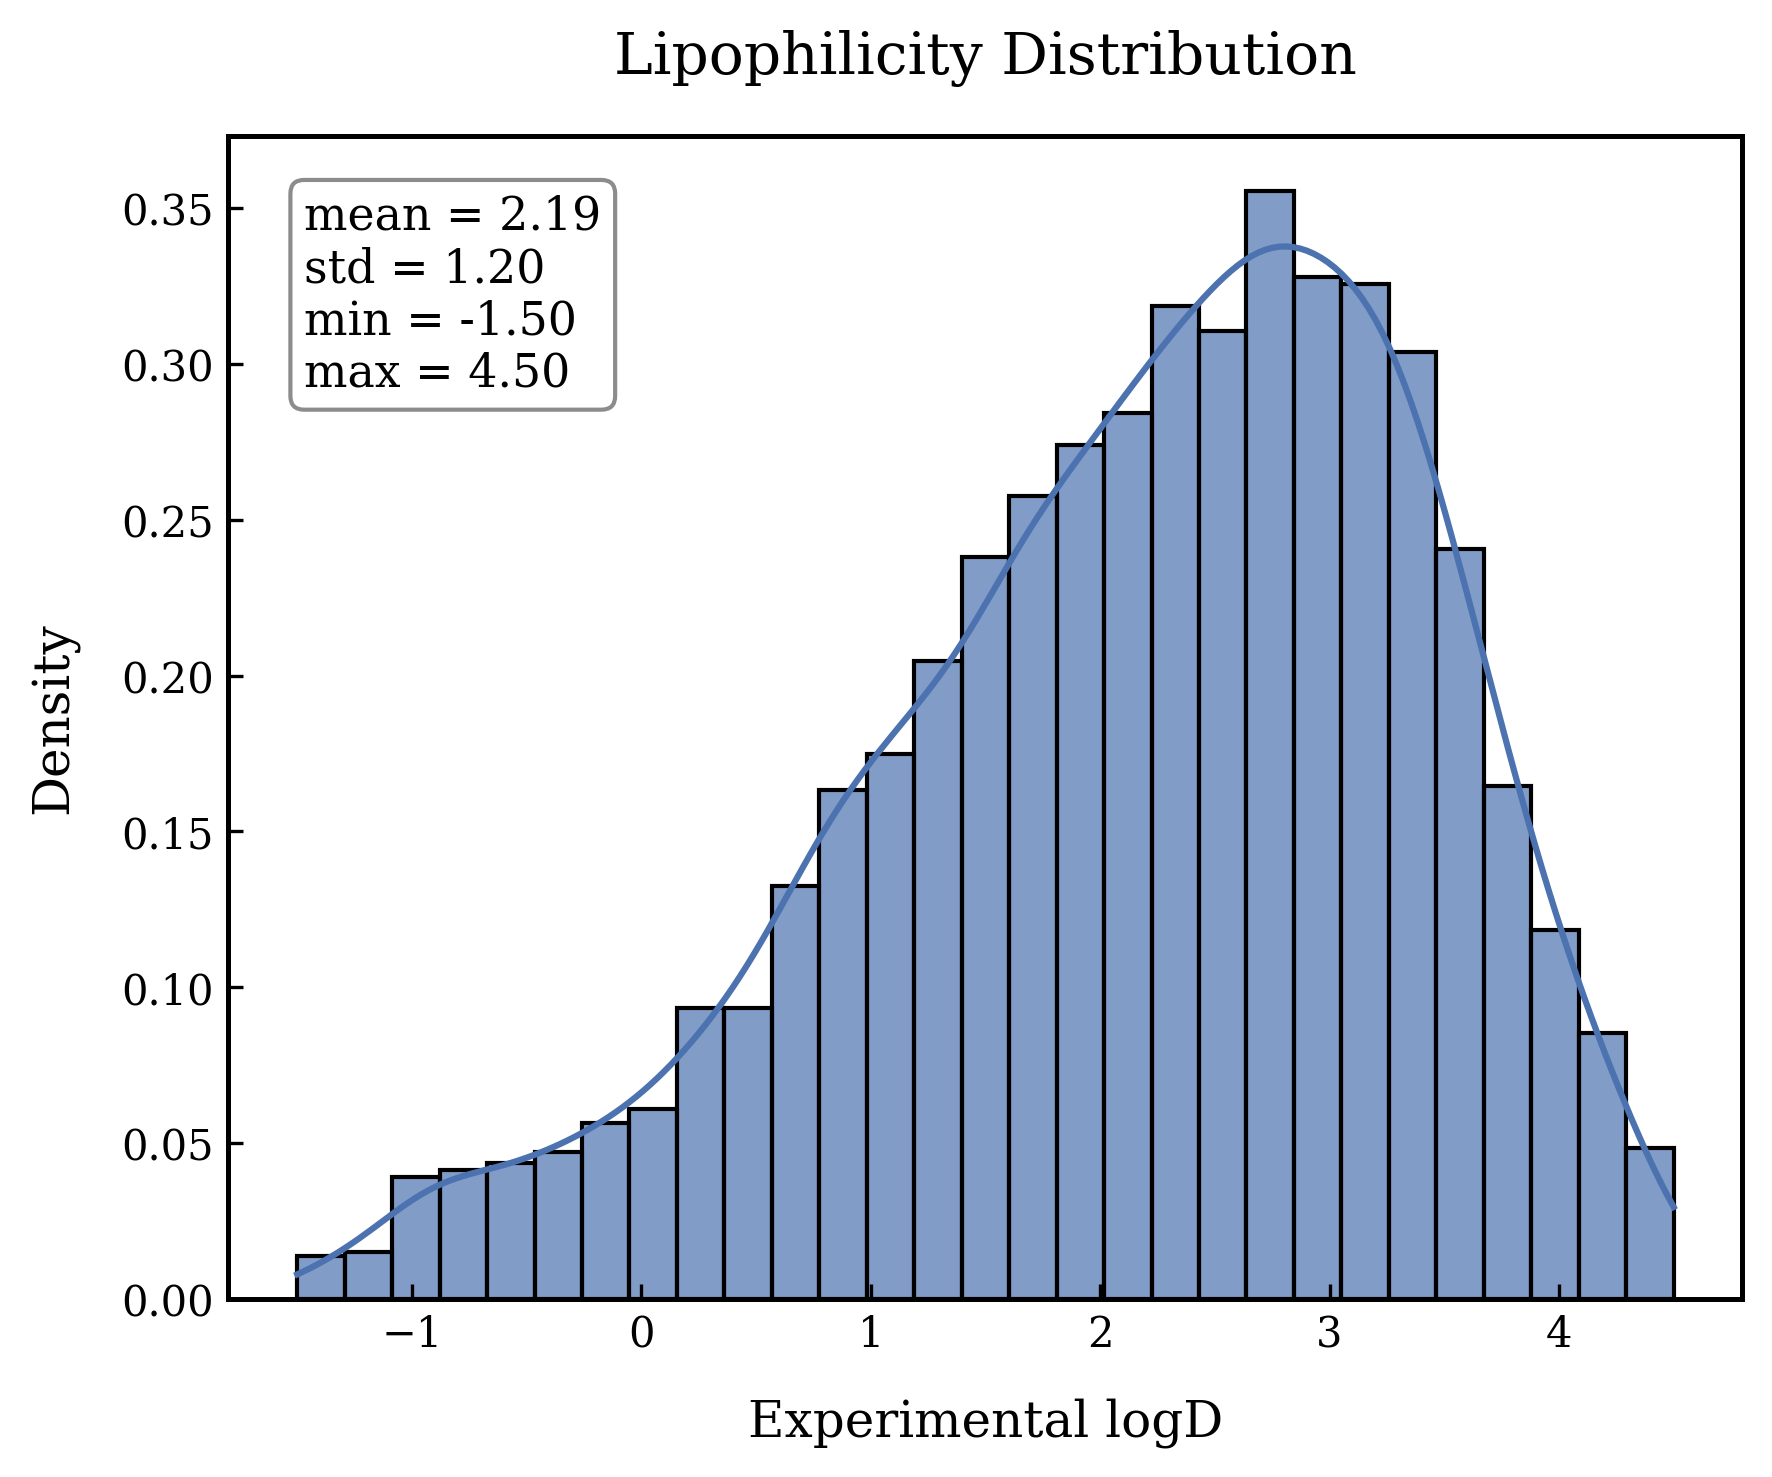
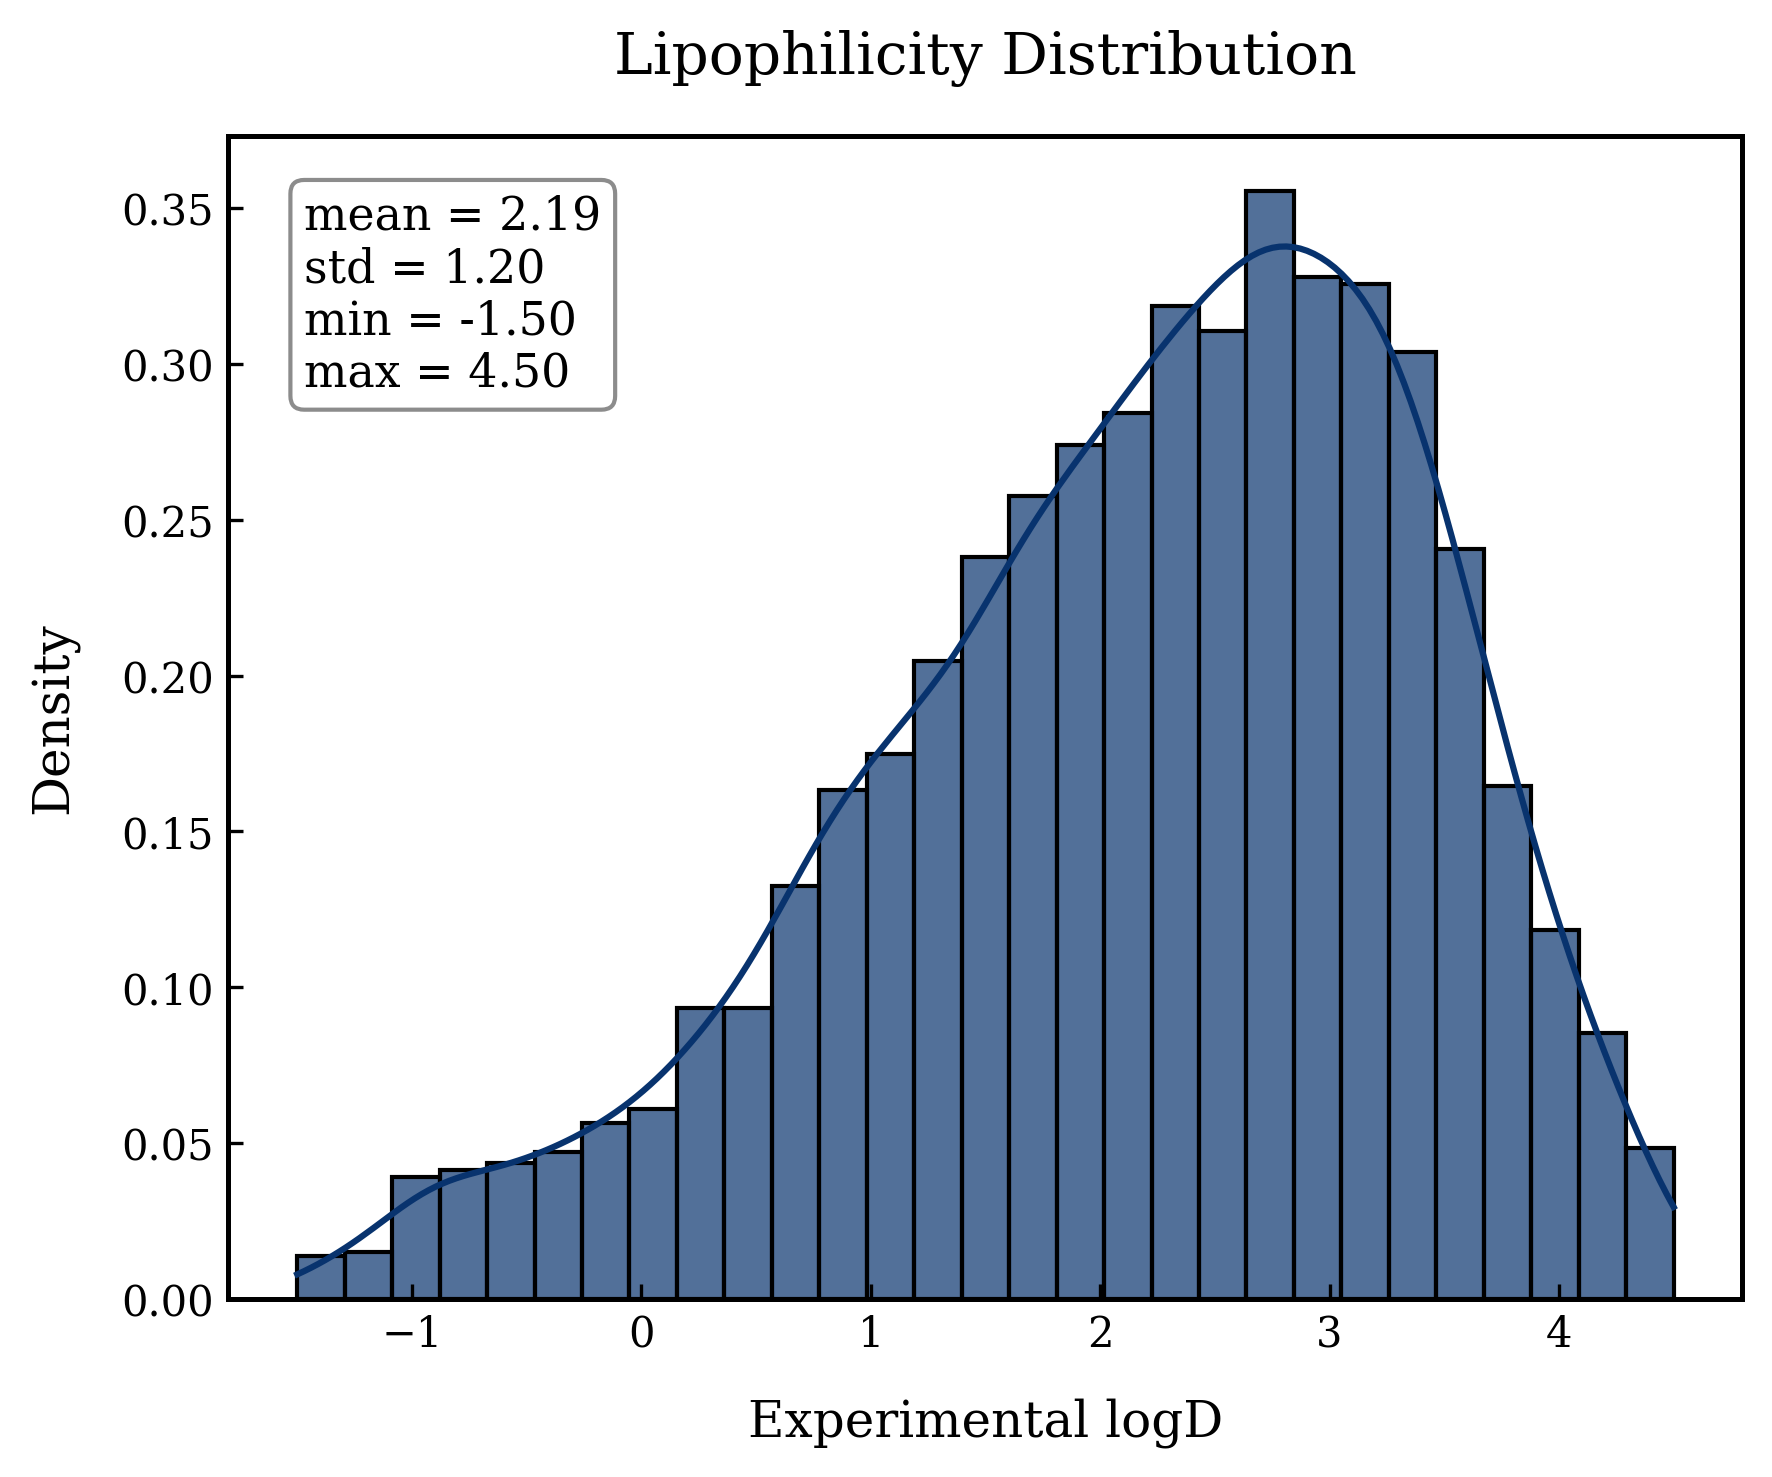
g

Changed region(s): [[0.1552, 0.1246, 0.9622, 0.9032]]

diff --git a/makeGraph/dataveiw/lipo.py b/makeGraph/dataveiw/lipo.py
@@ -27,8 +27,10 @@ fig, ax = plt.subplots(figsize=(6, 5), dpi=150) # 屏幕显示用 150 dpi
 
 # 4. 绘制直方图和密度曲线 (KDE)
 # color='#4c72b0' 是经典的学术深蓝色
+# sns.histplot(data=data, stat='density', kde=True, 
+#              color='#105CA4', edgecolor='black', alpha=0.7, ax=ax)
 sns.histplot(data=data, stat='density', kde=True, 
-             color='#4c72b0', edgecolor='black', alpha=0.7, ax=ax)
+             color='#08336E', edgecolor='black', alpha=0.7, ax=ax)
 
 # 5. 添加统计信息框
 stats_text = (f"mean = {mean_val:.2f}\n"

diff --git a/makeGraph/dataveiw/free.py b/makeGraph/dataveiw/free.py
@@ -28,7 +28,7 @@ fig, ax = plt.subplots(figsize=(6, 5), dpi=150)
 # 4. 绘制直方图和密度曲线
 # 这里的颜色我换成了深绿色 '#55A868'，用来区分 Lipophilicity (蓝色)
 sns.histplot(data=data, stat='density', kde=True, 
-             color='#55A868', edgecolor='black', alpha=0.7, ax=ax)
+             color='#00451B', edgecolor='black', alpha=0.7, ax=ax)
 
 # 5. 添加统计信息框 (保持在左上角)
 stats_text = (f"mean = {mean_val:.2f}\n"

diff --git a/makeGraph/dataveiw/esol.py b/makeGraph/dataveiw/esol.py
@@ -30,7 +30,7 @@ fig, ax = plt.subplots(figsize=(6, 5), dpi=150)
 
 # 4. 绘制 (颜色：学术红 #C44E52)
 sns.histplot(data=data, stat='density', kde=True, 
-             color='#C44E52', edgecolor='black', alpha=0.7, ax=ax)
+             color='#6D011F', edgecolor='black', alpha=0.7, ax=ax)
 
 # 5. 添加统计信息框 (左上角)
 stats_text = (f"mean = {mean_val:.2f}\n"
